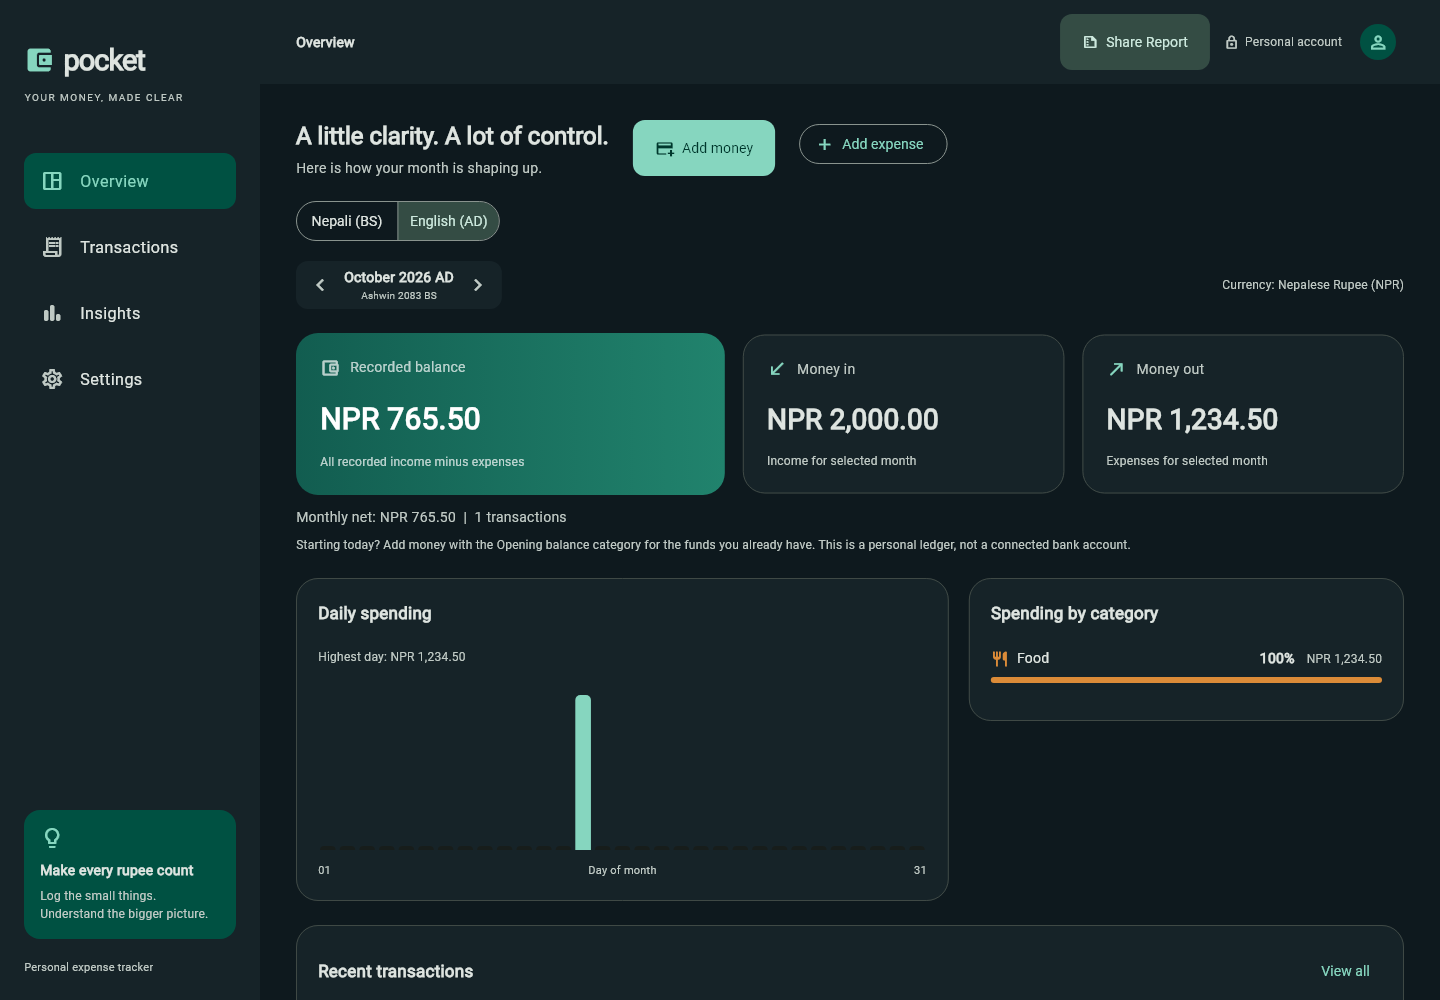
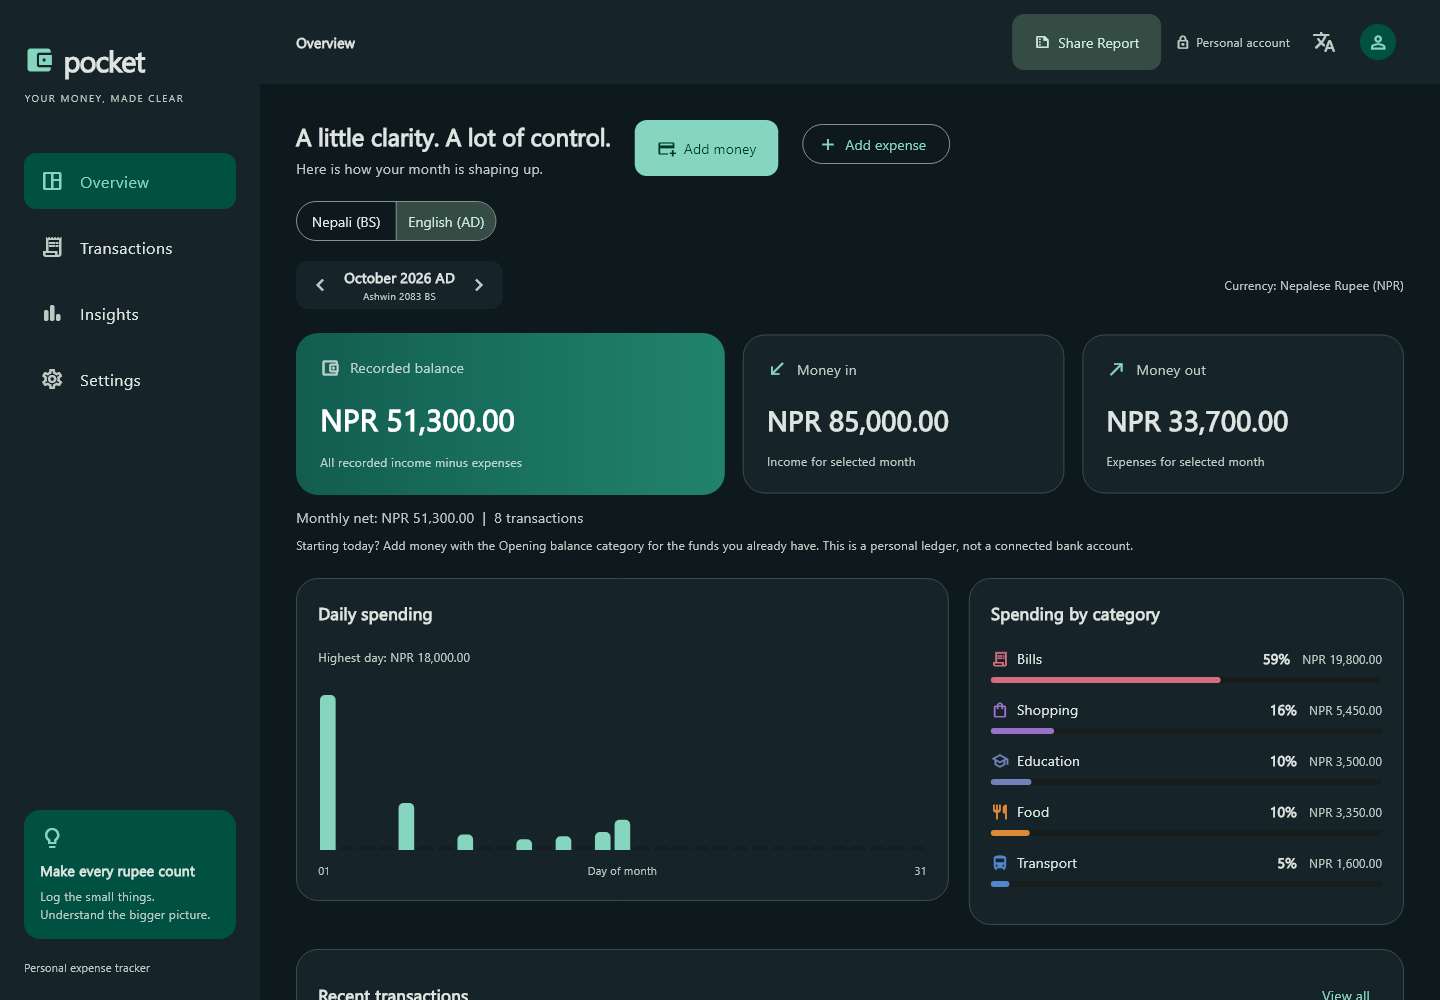
docs: update light and dark screenshots and showcase smart SMS auto-fill

diff --git a/README.md b/README.md
@@ -38,7 +38,13 @@ Managing personal money in Nepal comes with unique daily dynamics: navigating bo
 |:---:|:---:|
 | <img src="docs/light-mode.png" alt="Pocket Dashboard in Light Mode" width="460" /> | <img src="docs/dark-mode.png" alt="Pocket Dashboard in Dark Mode" width="460" /> |
 
-*High-fidelity Material 3 presentation featuring responsive navigation, instant balance computation, daily spending distribution, and category breakdowns.*
+<br/>
+
+| Smart SMS & Digital Wallet Auto-Fill (eSewa / Khalti / Bank SMS) |
+|:---:|
+| <img src="docs/smart-auto-fill.png" alt="Pocket Smart SMS and Wallet Auto-Fill" width="540" /> |
+
+*High-fidelity Material 3 presentation featuring responsive navigation, instant balance computation, daily spending distribution, category breakdowns, and zero-friction SMS & digital wallet parsing.*
 
 </div>
 
